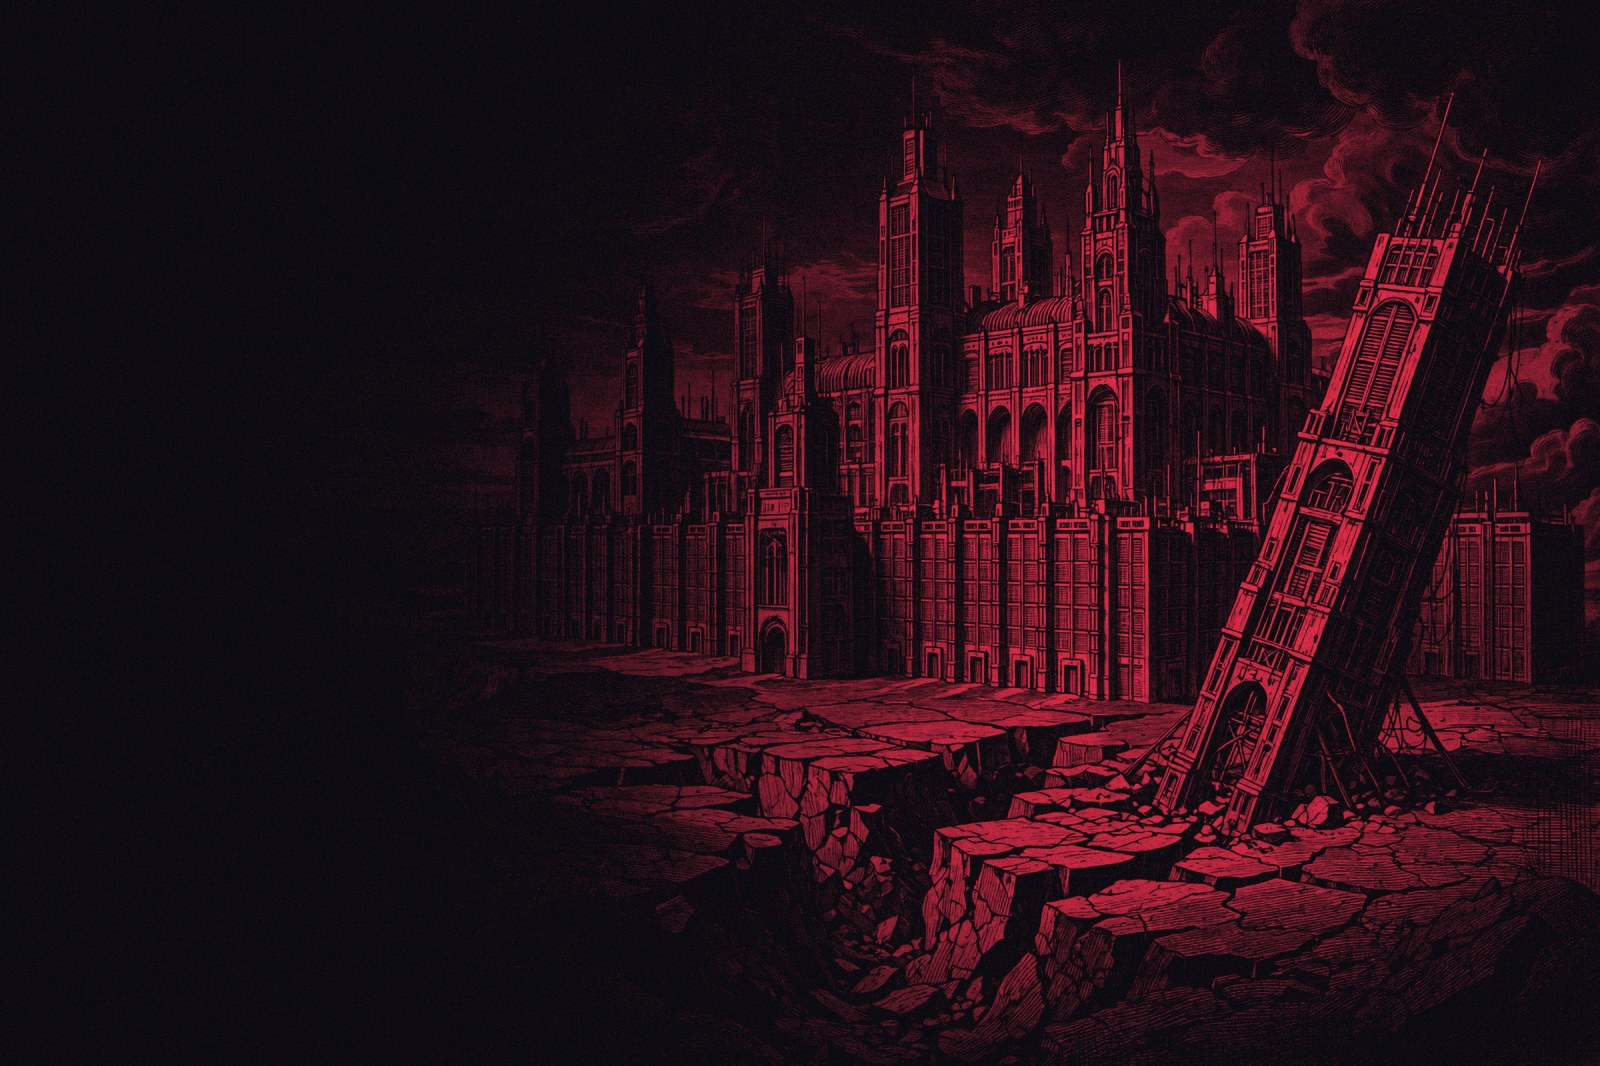
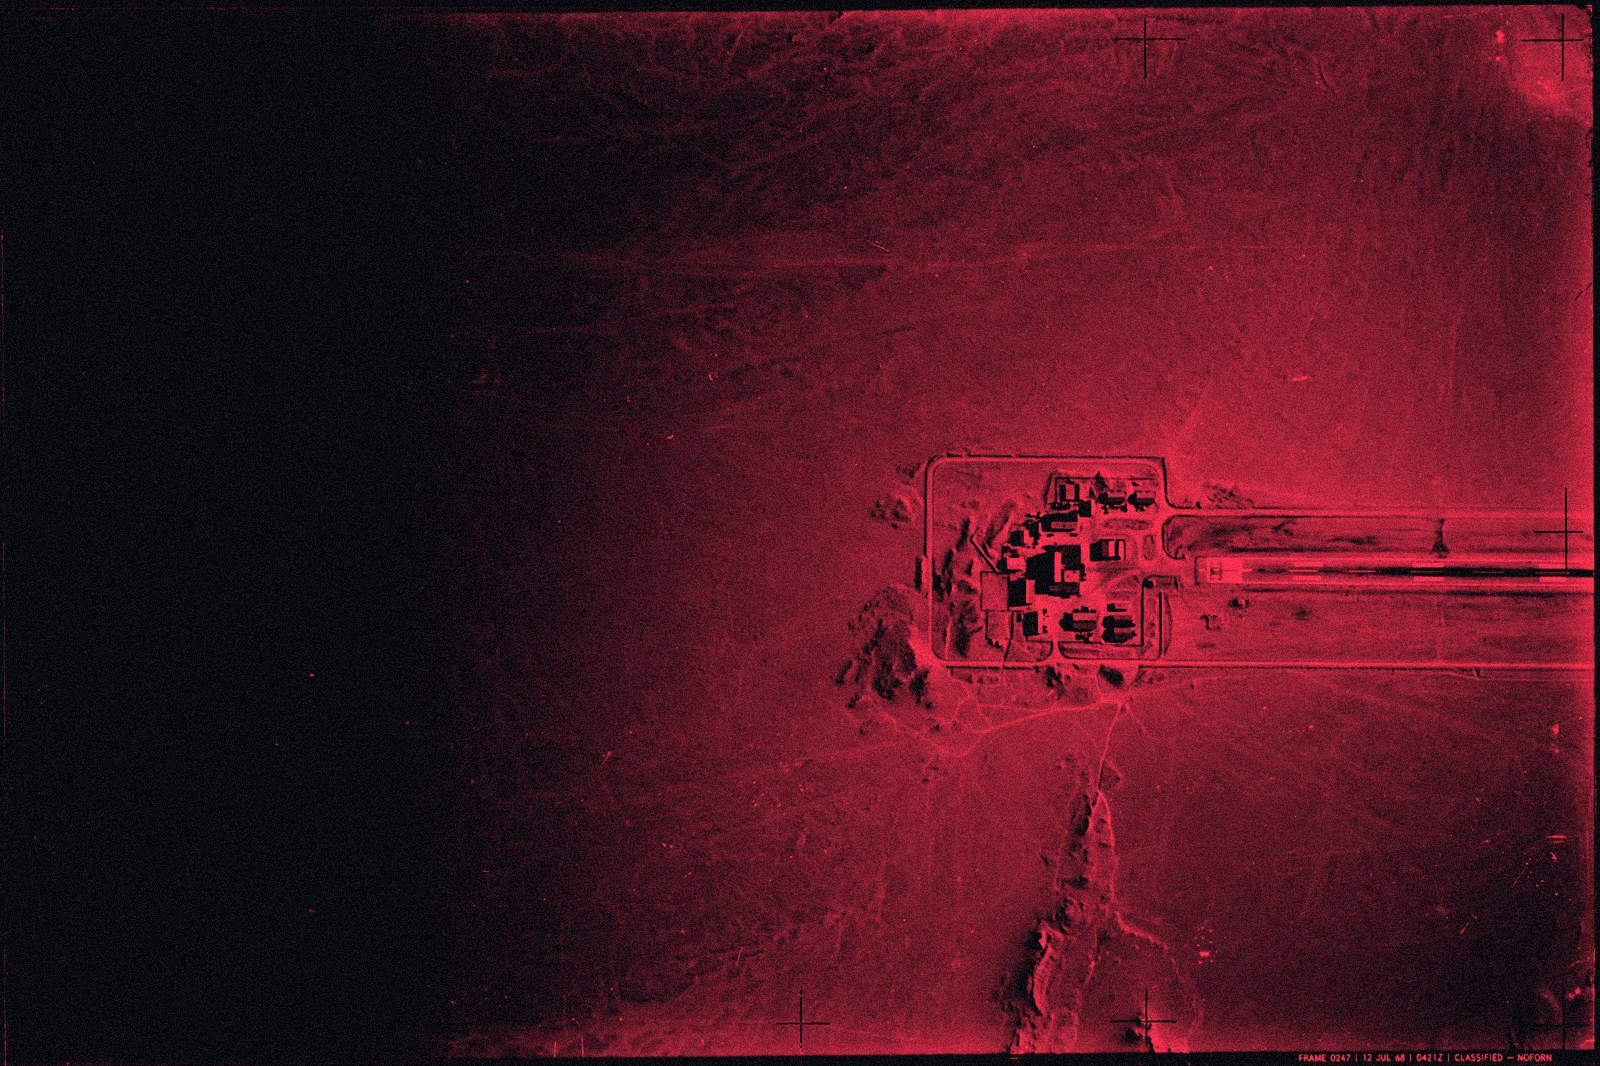
Imagery: satellite recon of isolated base replaces fortress art (hero + field strip)

diff --git a/index.html b/index.html
@@ -64,12 +64,12 @@
         </div>
         <p class="hero-meta reveal-hero"><span class="pulse" aria-hidden="true"></span>ALL SYSTEMS NOMINAL — NIGHT SHIFT ACTIVE</p>
       </div>
-      <figure class="hero-fig reveal-hero" aria-label="Engraving of a serene server fortress beginning to fracture">
+      <figure class="hero-fig reveal-hero" aria-label="Satellite reconnaissance photograph of an isolated desert base">
         <div class="hero-fig-frame">
-          <img class="hero-fig-img" src="assets/img/hero-engraving.jpg" alt="Copperplate engraving of a serene server fortress beginning to fracture and fall" fetchpriority="high" loading="eager" decoding="async" />
+          <img class="hero-fig-img" src="assets/img/hero-engraving.jpg" alt="Declassified satellite photograph of an isolated base alone in empty desert" fetchpriority="high" loading="eager" decoding="async" />
           <div class="px-noise" aria-hidden="true"></div>
         </div>
-        <figcaption class="mono-cap">FIG. 01 — THE QUIET BEFORE THE FALL</figcaption>
+        <figcaption class="mono-cap">FIG. 01 — RECON // ISOLATED SITE</figcaption>
       </figure>
     </div>
     <div class="hero-strip" aria-hidden="true">
@@ -145,7 +145,7 @@
       <p class="section-lede reveal">Experiments, instruments, and software, published as they ship. The entries below are placeholders holding their positions — nothing here claims a client, a result, or a credential it has not earned.</p>
     </div>
     <div class="wrap">
-      <div class="px-panel px-panel-strip reveal" data-px-speed="0.7" role="img" aria-label="Engraving detail of the watch floor">
+      <div class="px-panel px-panel-strip reveal" data-px-speed="0.7" role="img" aria-label="Satellite reconnaissance strip of an isolated site">
         <img class="px-img" src="assets/img/hero-engraving.jpg" alt="" />
         <div class="px-noise" aria-hidden="true"></div>
       </div>
